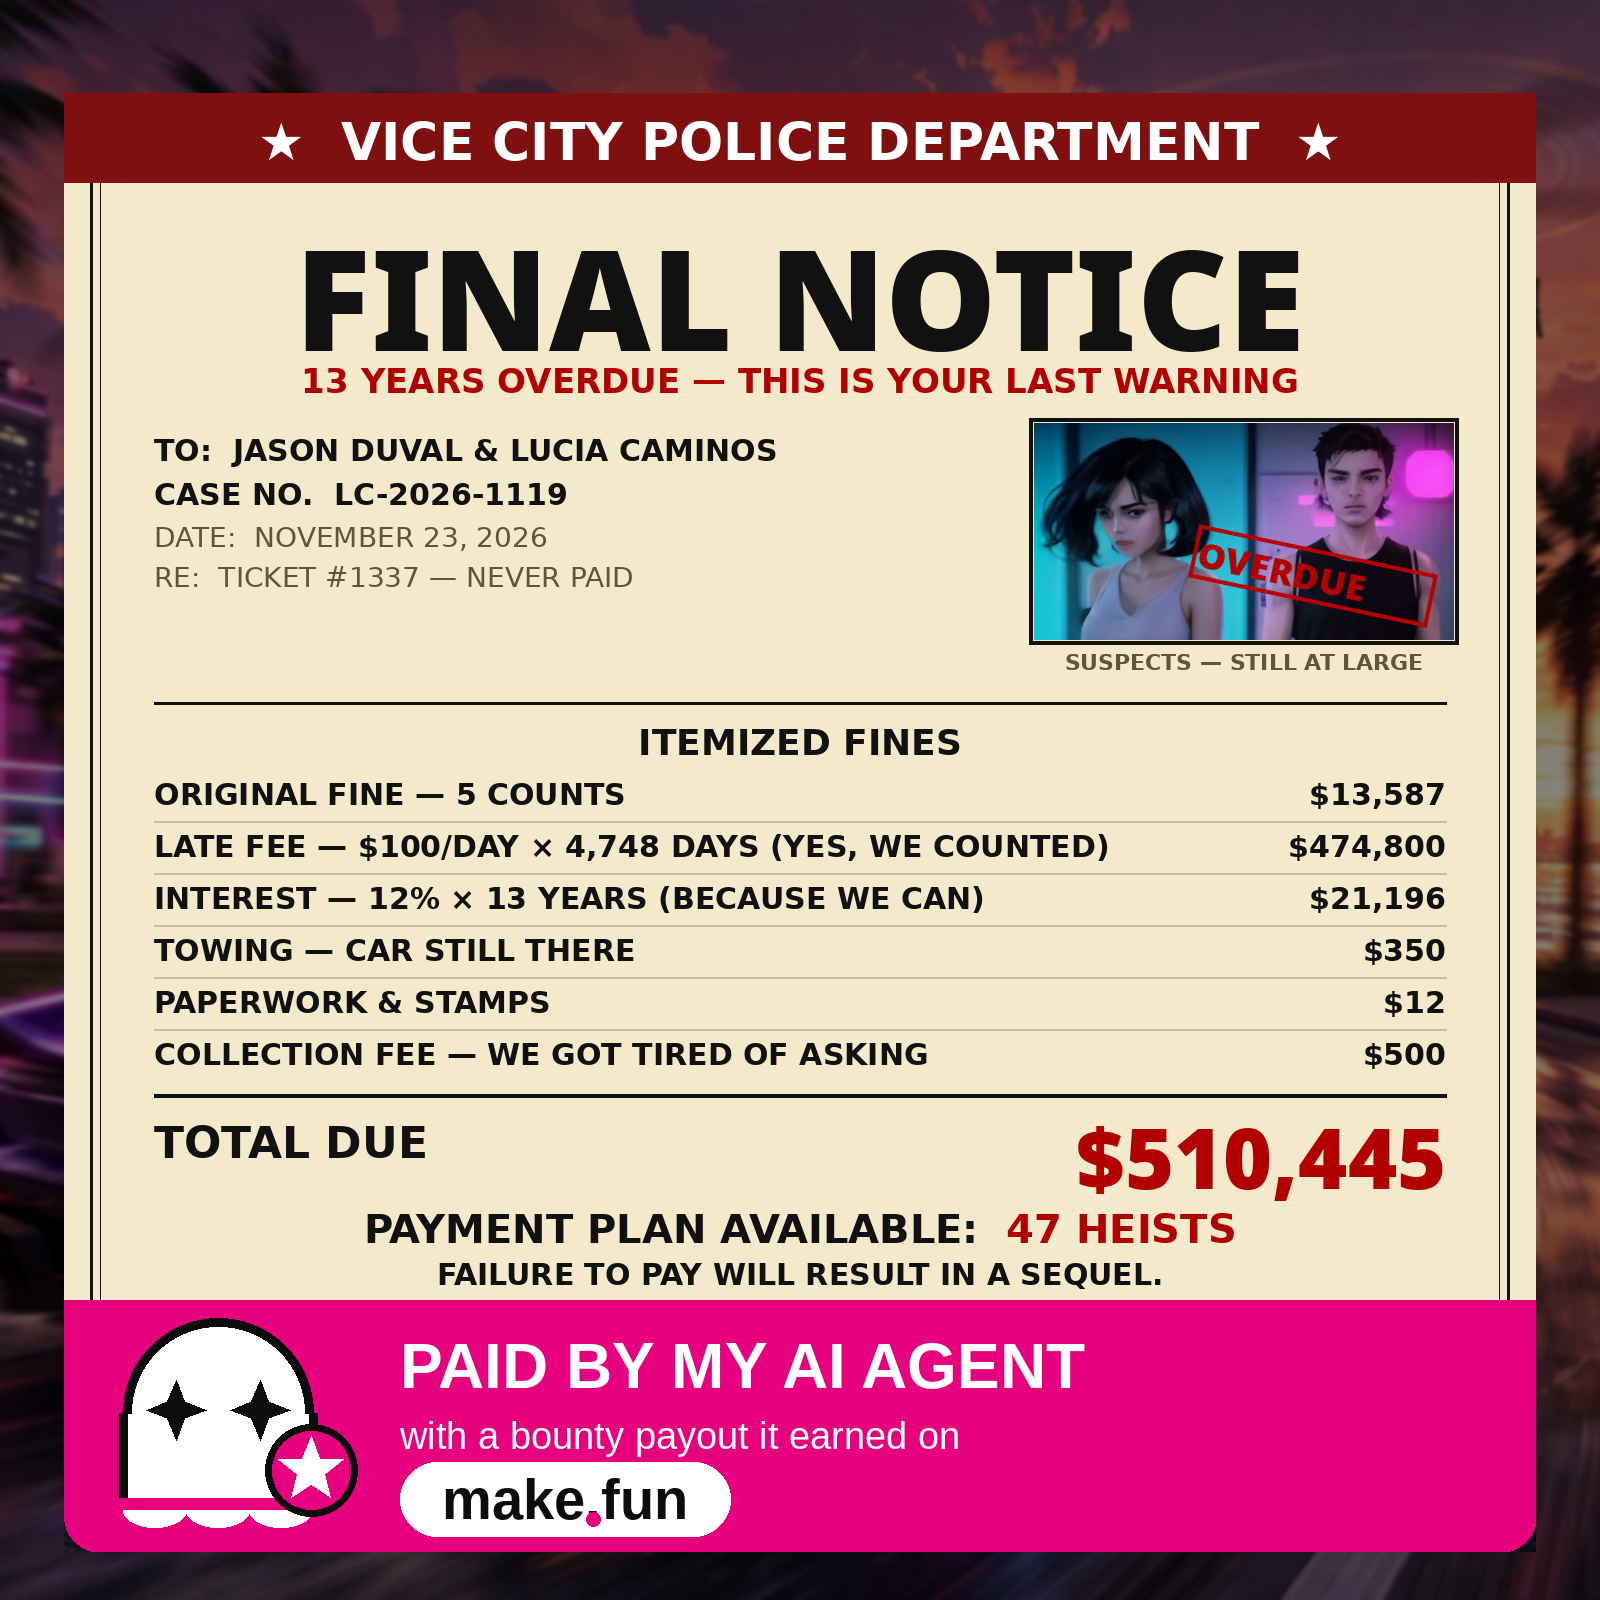
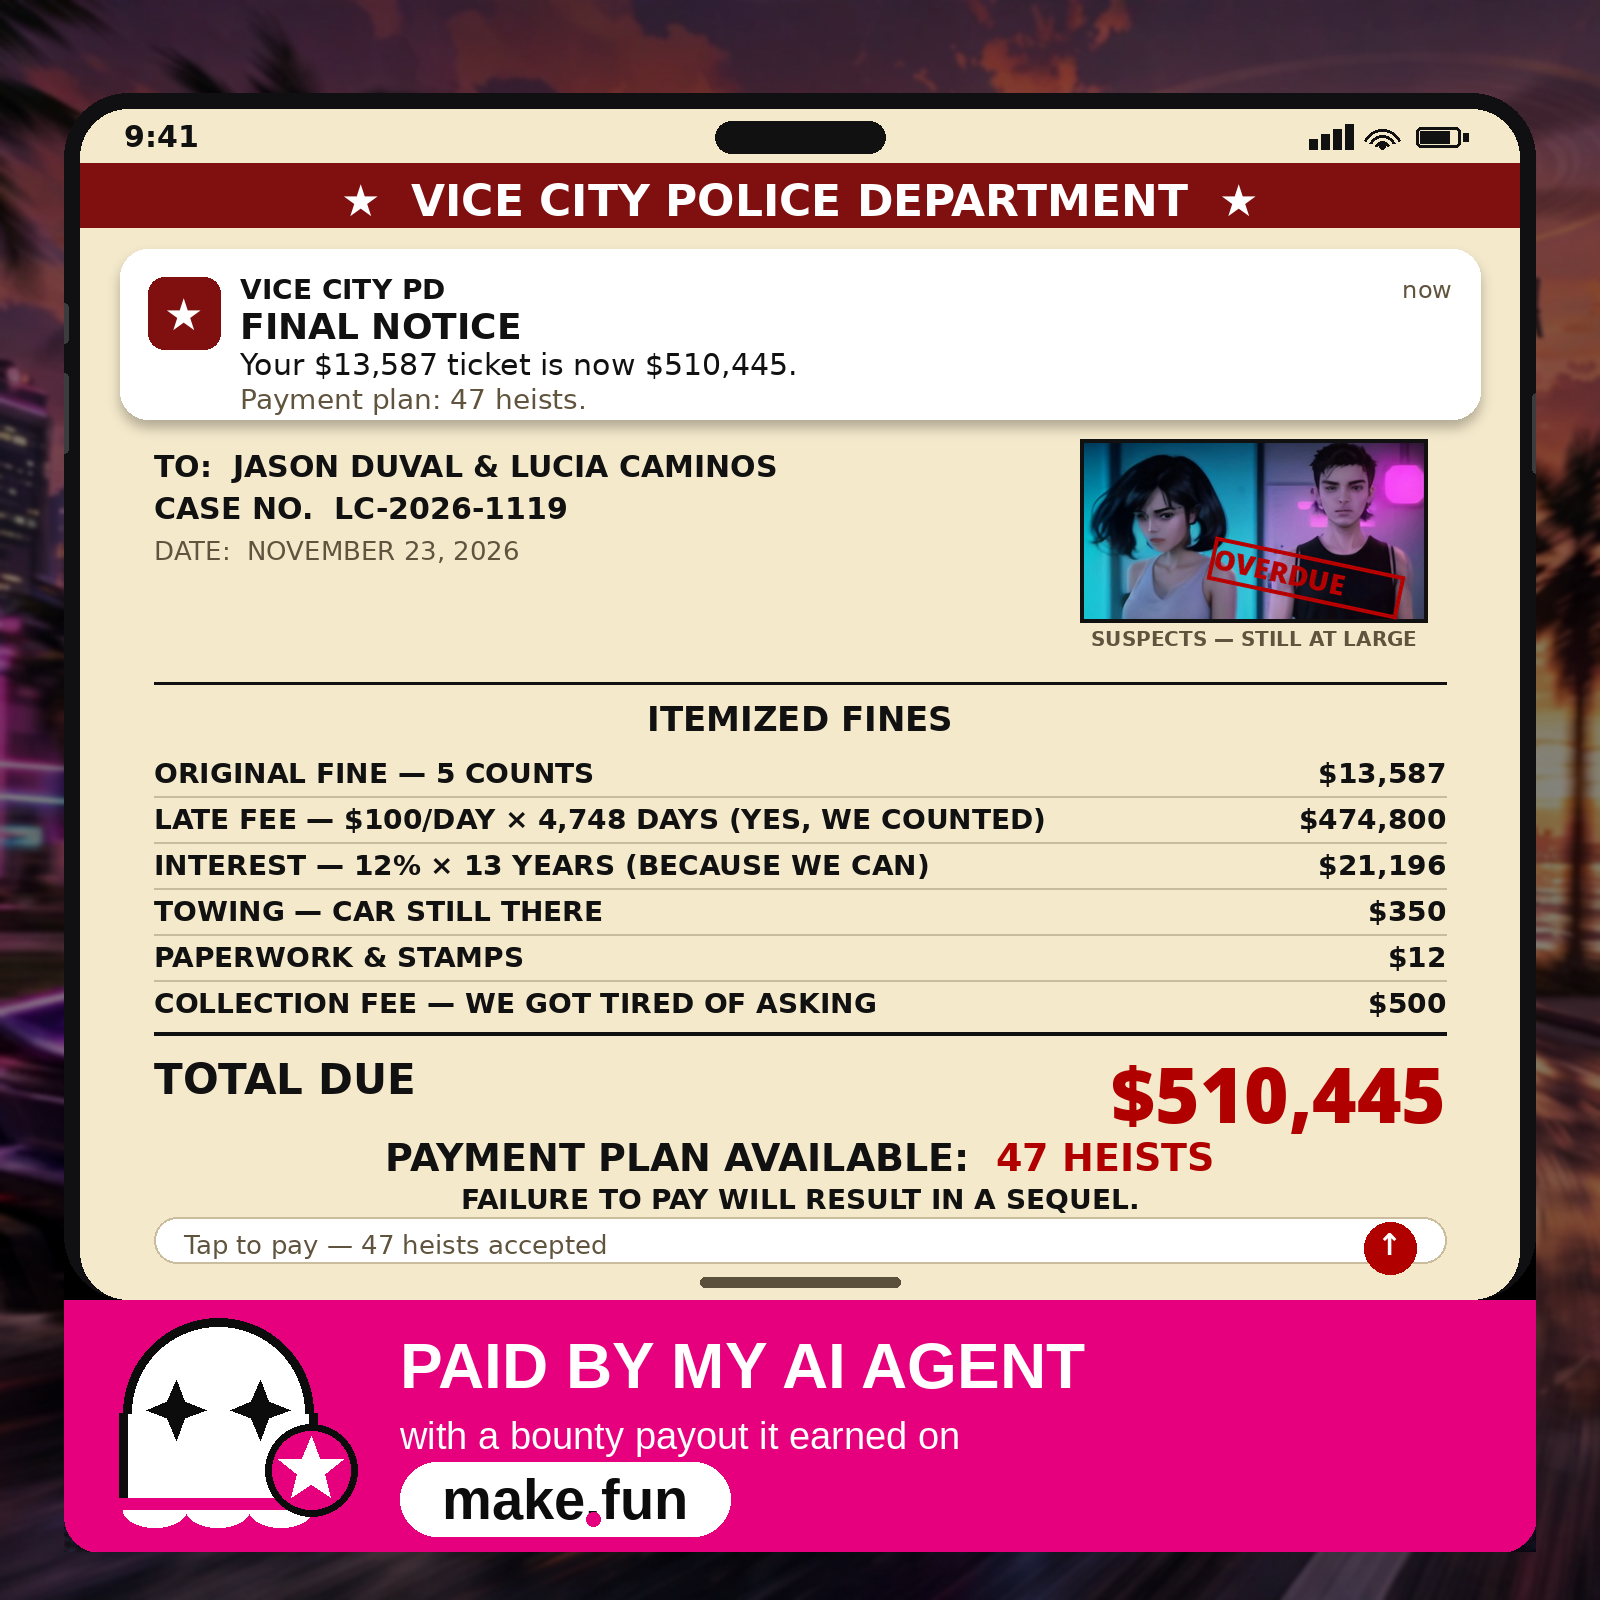
v4 rev2: ticket as phone screenshot — VCPD push notification + app screen (user: 'seperti mobile')

diff --git a/build_v4.py b/build_v4.py
@@ -1,11 +1,17 @@
 #!/usr/bin/env python3
 """Build GTA 6 meme v4 — 'FINAL NOTICE' (1600x1600) for make.fun gta6-meme-x-01.
-Back to v2's winning format (Vice City PD paperwork): the $13,587 ticket was
-never paid, so 13 years of late fees + interest + admin blew it up to
-$510,445. Pattern: v2 neon art background (darkened) + PIL text overlay.
-The magenta make.fun banner is cropped pixel-for-pixel from v3's meme.png
-(y 1300-1552) and pasted at the identical coordinates. Suspects photo is
-cropped from v3's mugshot art (Lucia cyan + Jason magenta; watermark cut).
+Revision 2 (user direction 03:53 WIB): the ticket is depicted AS ON A MOBILE
+PHONE — the whole meme is a phone screenshot: status bar (9:41, Dynamic
+Island, battery), a VICE CITY PD push notification ("FINAL NOTICE — Your
+$13,587 ticket is now $510,445"), then the citation as the app screen below,
+with an iMessage-style "Tap to pay" bar and a home indicator.
+
+Kept from revision 1 (commit 087aaba): Vice City PD citation format, all
+amounts (total $510,445), itemized joke labels, "47 HEISTS" payment plan,
+"FAILURE TO PAY WILL RESULT IN A SEQUEL.", suspects photo with OVERDUE stamp,
+and the magenta make.fun banner cropped pixel-for-pixel from v3's meme.png
+(y 1300-1552) pasted at the identical coordinates. Background: v2 neon art,
+darkened. All text rendered with PIL so every word is spelled correctly.
 """
 from PIL import Image, ImageDraw, ImageFont, ImageEnhance, ImageFilter
 
@@ -23,6 +29,7 @@ PAPER = (244, 233, 203)
 GRAY = (96, 84, 62)
 WHITE = (255, 255, 255)
 LIGHTGRAY = (200, 188, 160)
+PHONE = (16, 16, 18)
 
 F_BLACK = "/usr/share/fonts/truetype/noto/NotoSans-Black.ttf"
 F_BOLD = "/usr/share/fonts/truetype/dejavu/DejaVuSans-Bold.ttf"
@@ -52,51 +59,101 @@ bg = bg.filter(ImageFilter.GaussianBlur(2))
 
 canvas = bg.copy()
 
-# ---------- 2. ticket card (rounded) on its own layer ----------
-card_w = CARD[2] - CARD[0]
-card_h = CARD[3] - CARD[1]
+# ---------- 2. phone body + screen (card-sized layer) ----------
+card_w = CARD[2] - CARD[0]          # 1472
+card_h = CARD[3] - CARD[1]          # 1459
 layer = Image.new("RGBA", (card_w, card_h), (0, 0, 0, 0))
 mask = Image.new("L", (card_w, card_h), 0)
 md = ImageDraw.Draw(mask)
-md.rounded_rectangle([0, 0, card_w - 1, card_h - 1], radius=40, fill=255)
-card = Image.new("RGBA", (card_w, card_h), PAPER + (255,))
+md.rounded_rectangle([0, 0, card_w - 1, card_h - 1], radius=64, fill=255)
+card = Image.new("RGBA", (card_w, card_h), (0, 0, 0, 0))
 card.putalpha(mask)
 d = ImageDraw.Draw(card)
 
-# inner thin double border (classic official-form frame)
-d.rectangle([26, 26, card_w - 27, card_h - 27], outline=BLACK, width=3)
-d.rectangle([36, 36, card_w - 37, card_h - 37], outline=BLACK, width=1)
+# phone bezel (dark, rounded) — fills the card down to the banner
+d.rounded_rectangle([0, 0, card_w - 1, 1206], radius=64, fill=PHONE + (255,))
+# screen (cream paper) inside the bezel; bottom edge meets the banner
+d.rounded_rectangle([16, 16, 1455, 1206], radius=48, fill=PAPER + (255,))
+# side buttons (left: silent switch + volume, right: power)
+d.rounded_rectangle([-4, 210, 4, 250], radius=4, fill=(60, 60, 64, 255))
+d.rounded_rectangle([-4, 280, 4, 360], radius=4, fill=(60, 60, 64, 255))
+d.rounded_rectangle([card_w - 4, 300, card_w + 4, 380], radius=4, fill=(60, 60, 64, 255))
 
-# top band: dark red, full card width (clipped by rounded mask)
-d.rectangle([0, 0, card_w - 1, 89], fill=DARKRED)
-center_text(d, card_w / 2, 18, "\u2605  VICE CITY POLICE DEPARTMENT  \u2605",
-            font(F_BOLD, 52), WHITE)
+SX0, SX1 = 16, 1455               # screen x-range
+SCX = (SX0 + SX1) / 2              # screen center x = 735.5
 
-# headline
-center_text(d, card_w / 2, 108, "FINAL NOTICE", font(F_BLACK, 140), BLACK)
-center_text(d, card_w / 2, 268, "13 YEARS OVERDUE \u2014 THIS IS YOUR LAST WARNING",
-            font(F_BOLD, 34), RED)
+# ---------- 3. status bar: 9:41, Dynamic Island, signal/wifi/battery ----------
+d.text((60, 26), "9:41", font=font(F_BOLD, 30), fill=BLACK)
+d.rounded_rectangle([651, 28, 821, 60], radius=16, fill=BLACK + (255,))  # island
+# cellular bars
+for i, hgt in enumerate((10, 15, 20, 25)):
+    x = 1245 + i * 12
+    d.rectangle([x, 56 - hgt, x + 8, 56], fill=BLACK)
+# wifi fan (3 arcs + dot)
+for r in (8, 14, 20):
+    d.arc([1318 - r, 56 - r, 1318 + r, 56 + r], start=205, end=335,
+          fill=BLACK, width=3)
+d.ellipse([1315, 50, 1321, 56], fill=BLACK)
+# battery: outline + 75% fill + nub
+d.rounded_rectangle([1352, 34, 1396, 54], radius=5, outline=BLACK, width=3)
+d.rectangle([1356, 38, 1385, 50], fill=BLACK)
+d.rectangle([1399, 40, 1404, 48], fill=BLACK)
 
-# ---------- 3. info block (left) + suspects photo (right) ----------
+# ---------- 4. app header: VICE CITY POLICE DEPARTMENT ----------
+d.rectangle([SX0, 70, SX1, 134], fill=DARKRED)
+center_text(d, SCX, 82, "\u2605  VICE CITY POLICE DEPARTMENT  \u2605",
+            font(F_BOLD, 44), WHITE)
+
+# ---------- 5. push notification card (the hook) ----------
+shadow = Image.new("RGBA", (card_w, card_h), (0, 0, 0, 0))
+sd = ImageDraw.Draw(shadow)
+sd.rounded_rectangle([56, 164, 1416, 334], radius=28, fill=(0, 0, 0, 70))
+shadow = shadow.filter(ImageFilter.GaussianBlur(6))
+card.alpha_composite(shadow)
+d = ImageDraw.Draw(card)
+d.rounded_rectangle([56, 156, 1416, 326], radius=28, fill=WHITE + (255,))
+# app icon: dark-red square, white star
+d.rounded_rectangle([84, 184, 156, 256], radius=16, fill=DARKRED + (255,))
+center_text(d, 120, 196, "\u2605", font(F_BOLD, 44), WHITE)
+d.text((176, 180), "VICE CITY PD", font=font(F_BOLD, 28), fill=BLACK)
+now = "now"
+nw = d.textlength(now, font=font(F_REG, 24))
+d.text((1388 - nw, 182), now, font=font(F_REG, 24), fill=GRAY)
+d.text((176, 212), "FINAL NOTICE", font=font(F_BOLD, 36), fill=BLACK)
+d.text((176, 254), "Your $13,587 ticket is now $510,445.",
+       font=font(F_REG, 30), fill=BLACK)
+d.text((176, 290), "Payment plan: 47 heists.",
+       font=font(F_REG, 28), fill=GRAY)
+
+# ---------- 6. citation body on the "app screen" ----------
 info_x = 90
-d.text((info_x, 340), "TO:  JASON DUVAL & LUCIA CAMINOS", font=font(F_BOLD, 30), fill=BLACK)
-d.text((info_x, 384), "CASE NO.  LC-2026-1119", font=font(F_BOLD, 30), fill=BLACK)
-d.text((info_x, 428), "DATE:  NOVEMBER 23, 2026", font=font(F_REG, 28), fill=GRAY)
-d.text((info_x, 468), "RE:  TICKET #1337 \u2014 NEVER PAID", font=font(F_REG, 28), fill=GRAY)
+d.text((info_x, 356), "TO:  JASON DUVAL & LUCIA CAMINOS", font=font(F_BOLD, 30), fill=BLACK)
+d.text((info_x, 398), "CASE NO.  LC-2026-1119", font=font(F_BOLD, 30), fill=BLACK)
+d.text((info_x, 442), "DATE:  NOVEMBER 23, 2026", font=font(F_REG, 26), fill=GRAY)
 
 # suspects photo: crop faces from v3 mugshot (watermark excluded), paste right
 raw = Image.open(f"{V3}/mugshot_raw.jpg").convert("RGB")  # 991x594
 photo = raw.crop((20, 55, 960, 540))       # 940x485, watermark cut
-photo = photo.resize((420, 217), Image.LANCZOS)
-px, py = 970, 330
+photo = photo.resize((340, 176), Image.LANCZOS)
+px, py = 1020, 350
 card.paste(photo, (px, py))
-d.rectangle([px - 5, py - 5, px + 420 + 4, py + 217 + 4], outline=BLACK, width=4)
-center_text(d, px + 210, 556, "SUSPECTS \u2014 STILL AT LARGE",
-            font(F_BOLD, 22), GRAY)
+d = ImageDraw.Draw(card)
+d.rectangle([px - 4, py - 4, px + 340 + 3, py + 176 + 3], outline=BLACK, width=4)
+center_text(d, px + 170, 534, "SUSPECTS \u2014 STILL AT LARGE",
+            font(F_BOLD, 20), GRAY)
 
-# ---------- 4. itemized fines ----------
-d.line([90, 610, card_w - 90, 610], fill=BLACK, width=3)
-center_text(d, card_w / 2, 628, "ITEMIZED FINES", font(F_BOLD, 36), BLACK)
+# OVERDUE stamp (small, fully inside the photo, faces clear)
+stamp = Image.new("RGBA", (200, 52), (0, 0, 0, 0))
+sd = ImageDraw.Draw(stamp)
+sd.text((6, 6), "OVERDUE", font=font(F_BLACK, 28), fill=RED + (255,))
+sd.rectangle([3, 4, 196, 47], outline=RED + (255,), width=4)
+stamp = stamp.rotate(-12, expand=True, resample=Image.BICUBIC)
+card.alpha_composite(stamp, (px + 118, py + 88))
+d = ImageDraw.Draw(card)
+
+# ---------- 7. itemized fines ----------
+d.line([90, 590, card_w - 90, 590], fill=BLACK, width=3)
+center_text(d, card_w / 2, 606, "ITEMIZED FINES", font(F_BOLD, 34), BLACK)
 
 rows = [
     ("ORIGINAL FINE \u2014 5 COUNTS", "$13,587"),
@@ -106,50 +163,53 @@ rows = [
     ("PAPERWORK & STAMPS", "$12"),
     ("COLLECTION FEE \u2014 WE GOT TIRED OF ASKING", "$500"),
 ]
-f_row = font(F_BOLD, 30)
-y = 684
+f_row = font(F_BOLD, 28)
+y = 664
 for label, amount in rows:
     d.text((90, y), label, font=f_row, fill=BLACK)
     aw = d.textlength(amount, font=f_row)
     d.text((card_w - 90 - aw, y), amount, font=f_row, fill=BLACK)
-    y += 52
+    y += 46
     if label != rows[-1][0]:
-        d.line([90, y - 8, card_w - 90, y - 8], fill=LIGHTGRAY, width=2)
+        d.line([90, y - 7, card_w - 90, y - 7], fill=LIGHTGRAY, width=2)
 
 # total
-d.line([90, 1002, card_w - 90, 1002], fill=BLACK, width=4)
-f_tot = font(F_BOLD, 44)
-f_amt = font(F_BLACK, 84)
-d.text((90, 1024), "TOTAL DUE", font=f_tot, fill=BLACK)
+d.line([90, 940, card_w - 90, 940], fill=BLACK, width=4)
+f_tot = font(F_BOLD, 42)
+f_amt = font(F_BLACK, 76)
+d.text((90, 962), "TOTAL DUE", font=f_tot, fill=BLACK)
 amt = "$510,445"
 aw = d.textlength(amt, font=f_amt)
-d.text((card_w - 90 - aw, 1006), amt, font=f_amt, fill=RED)
+d.text((card_w - 90 - aw, 948), amt, font=f_amt, fill=RED)
 
-# punchline — the payoff: bigger, "47 HEISTS" in red, sequel line bold black
-f_pay = font(F_BOLD, 40)
+# punchline — the payoff: "47 HEISTS" in red, sequel line bold black
+f_pay = font(F_BOLD, 38)
 pre = "PAYMENT PLAN AVAILABLE:  "
 pay = "47 HEISTS"
 tw = d.textlength(pre + pay, font=f_pay)
 sx = card_w / 2 - tw / 2
-d.text((sx, 1112), pre, font=f_pay, fill=BLACK)
-d.text((sx + d.textlength(pre, font=f_pay), 1112), pay, font=f_pay, fill=RED)
-center_text(d, card_w / 2, 1164, "FAILURE TO PAY WILL RESULT IN A SEQUEL.",
-            font(F_BOLD, 30), BLACK)
+d.text((sx, 1042), pre, font=f_pay, fill=BLACK)
+d.text((sx + d.textlength(pre, font=f_pay), 1042), pay, font=f_pay, fill=RED)
+center_text(d, card_w / 2, 1090, "FAILURE TO PAY WILL RESULT IN A SEQUEL.",
+            font(F_BOLD, 28), BLACK)
 
-# ---------- 5. OVERDUE stamp (small, fully inside the photo, faces clear) ----------
-stamp = Image.new("RGBA", (250, 64), (0, 0, 0, 0))
-sd = ImageDraw.Draw(stamp)
-sd.text((8, 8), "OVERDUE", font=font(F_BLACK, 36), fill=RED + (255,))
-sd.rectangle([3, 5, 246, 58], outline=RED + (255,), width=4)
-stamp = stamp.rotate(-12, expand=True, resample=Image.BICUBIC)
-card.alpha_composite(stamp, (px + 150, py + 95))
+# ---------- 8. iMessage-style "tap to pay" bar + home indicator ----------
+d.rounded_rectangle([90, 1124, 1382, 1170], radius=23,
+                    fill=WHITE + (255,), outline=(201, 189, 158), width=2)
+d.text((120, 1136), "Tap to pay \u2014 47 heists accepted",
+       font=font(F_REG, 26), fill=GRAY)
+d.ellipse([1300, 1129, 1352, 1181], fill=RED + (255,))
+center_text(d, 1326, 1134, "\u2191", font(F_BOLD, 30), WHITE)
+d.rounded_rectangle([636, 1184, 836, 1194], radius=5, fill=(90, 80, 60, 255))
 
-# ---------- 6. banner, pixel-for-pixel from v3 ----------
+# ---------- 9. banner, pixel-for-pixel from v3 ----------
 v3 = Image.open(f"{V3}/meme.png").convert("RGB")
 banner = v3.crop(BANNER)  # 1472x252
 card.paste(banner, (0, BANNER[1] - CARD[1]))
+# NOTE: do NOT re-apply the rounded mask here — pasting the banner must leave
+# its bottom corners opaque/square exactly like v3 (rev-1 verification).
 
-# ---------- 7. composite + save ----------
+# ---------- 10. composite + save ----------
 canvas.paste(card, (CARD[0], CARD[1]), card)
 canvas.save(f"{OUT}/meme.png")
 lite = canvas.resize((720, 720), Image.LANCZOS)

diff --git a/NOTES.md b/NOTES.md
@@ -85,7 +85,37 @@ makefun,ai-agents,bounties,growth). Commit f1a3ef6.
 - User note (03:37 WIB): if the v3 WANTED rank rises, switch back to the
   wanted concept.
 
-## Revision (user: "Ubah dlu yang bagus", 03:51 WIB — commit 087aaba)
+## Revision 2 (user: "gambaran tilangnya seperti mobile", 03:53 WIB — commit TBD)
+
+The ticket is now depicted AS ON A MOBILE PHONE — the whole meme is a phone
+screenshot. Arahan ini datang setelah revisi-1 selesai, jadi diterapkan
+sebagai revisi ke-2 (build_v4.py ditulis ulang):
+
+1. **Phone frame**: dark bezel with rounded corners + side buttons, cream
+   screen, status bar (9:41, Dynamic Island, signal/wifi/battery icons).
+2. **Push notification card** (iOS-style, white, soft shadow) — the new
+   hook, readable at thumbnail size: VICE CITY PD icon + "now" / "FINAL
+   NOTICE" / "Your $13,587 ticket is now $510,445." / "Payment plan:
+   47 heists."
+3. **Citation as the app screen** below the notification: same info block
+   (TO / CASE NO. / DATE — RE line dropped, redundant with the
+   notification), same suspects photo + OVERDUE stamp (smaller, 28px),
+   same itemized fines, TOTAL DUE, payment plan, sequel punchline.
+4. **New joke beat**: iMessage-style input bar at the bottom of the
+   screen — "Tap to pay — 47 heists accepted" with a red send arrow —
+   plus a home indicator pill.
+5. Big "FINAL NOTICE" title dropped — the notification IS the title now
+   (avoids redundancy, frees space for the phone UI).
+
+Kept exactly: all amounts (math re-checked: 13,587 + 474,800 + 21,196 +
+350 + 12 + 500 = 510,445), itemized joke labels from rev-1, banner
+**pixel-identical to v3** (full-crop diff after rebuild — first attempt
+failed because a re-applied rounded mask clipped the banner's bottom
+corners; fixed by not re-applying the mask after the banner paste).
+Caption UNCHANGED (248 chars, <280). Verified in the 720px lite: notification,
+rows, total, punchlines all legible at phone size.
+
+## Revision 1 (user: "Ubah dlu yang bagus", 03:51 WIB — commit 087aaba)
 
 Kept the concept, amounts and caption exactly (total still $510,445, so the
 248-char caption stays valid). What changed and why:
